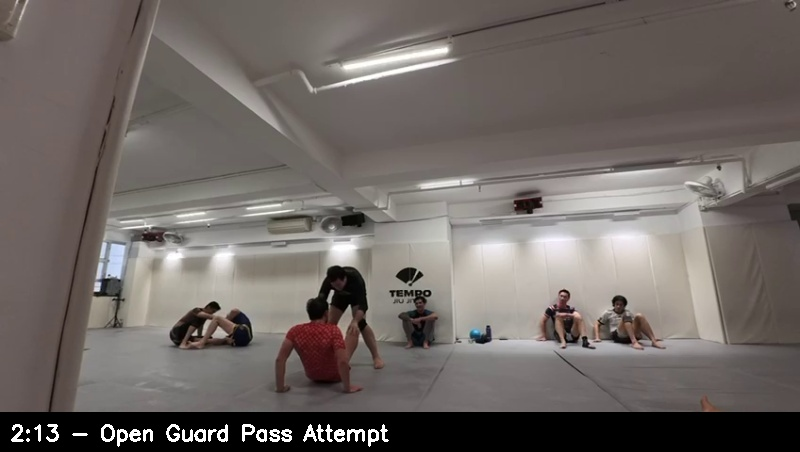
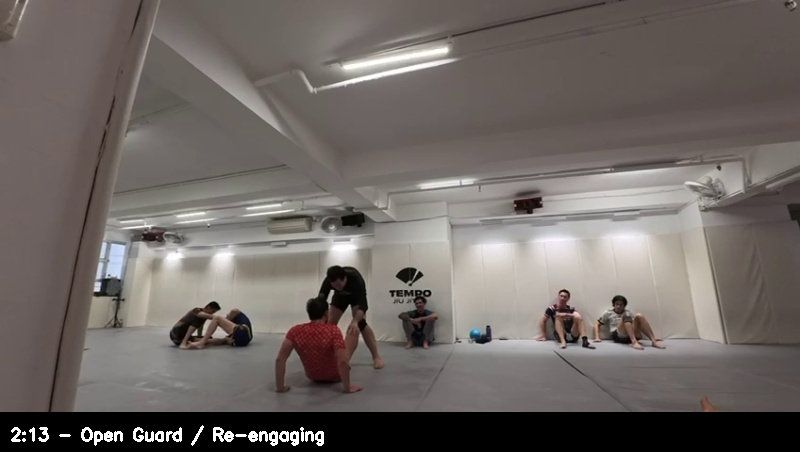
Fill gap between 2:04 and 2:22 with 4 missing frames
Added frames at 2:10, 2:13, 2:16, 2:19 showing the final pass
sequence leading to the submission:

- 2:10: Anthony reguards to closed guard (last guard recovery)
- 2:13: Anthony opens guard, Greig re-engaging
- 2:16: Half guard / near pass — Greig driving through
- 2:19: Side control LOCKED IN — this is where the sub pressure starts
- 2:22: Maximum pressure (already existed)
- 2:26: TAP (already existed)

The full submission sequence is now visible: closed guard → open →
half guard → side control → 7 seconds of heavy pressure → tap.

Changed region(s): [[0.0, 0.9292, 0.5, 0.9912]]

diff --git a/Roll Log/2026-04-14 - Greig vs Anthony - Roll 1 (WIN by submission).md b/Roll Log/2026-04-14 - Greig vs Anthony - Roll 1 (WIN by submission).md
@@ -177,10 +177,38 @@ One knee splitting. Setting up the final pass.
 
 ---
 
-### 2:22 — Heavy Side Control (Submission Building)
+### 2:10 — Closed Guard (Anthony Reguards)
+![[assets/greig_v3_annotated/f_45_130s.jpg]]
+**Position:** [[Inside Closed Guard (Top)]] vs [[Closed Guard (Bottom)]]
+Anthony wraps legs around Greig. Back in closed guard. **Tip:** Stand up to break — don't stay kneeling.
+
+---
+
+### 2:13 — Open Guard / Re-engaging
+![[assets/greig_v3_annotated/f_46_133s.jpg]]
+**Position:** [[Passing Open Guard (Top)]] vs [[Open Guard (generic)]]
+Anthony opens guard. Greig re-engaging to pass. Working from kneeling.
+
+---
+
+### 2:16 — Half Guard / Near Pass
+![[assets/greig_v3_annotated/f_47_136s.jpg]]
+**Position:** [[Half Guard (Top)]] vs [[Half Guard (Bottom)]]
+Greig driving through. Very close to completing the pass. Heavy pressure.
+
+---
+
+### 2:19 — Side Control LOCKED IN
+![[assets/greig_v3_annotated/f_48_139s.jpg]]
+**Position:** [[Side Control (Top)]] vs [[Bottom Side Control]]
+Side control established. Greig is HEAVY. Anthony flat. This is the submission position building. **The pressure from here leads to the tap 7 seconds later.**
+
+---
+
+### 2:22 — Heavy Side Control (Submission Pressure)
 ![[assets/greig_v3_annotated/f_49_142s.jpg]]
 **Position:** [[Side Control (Top)]] vs [[Bottom Side Control]]
-Very heavy pressure. The submission is coming.
+Maximum pressure. Greig driving weight down. Anthony being smothered. The submission is imminent.
 
 ---
 
